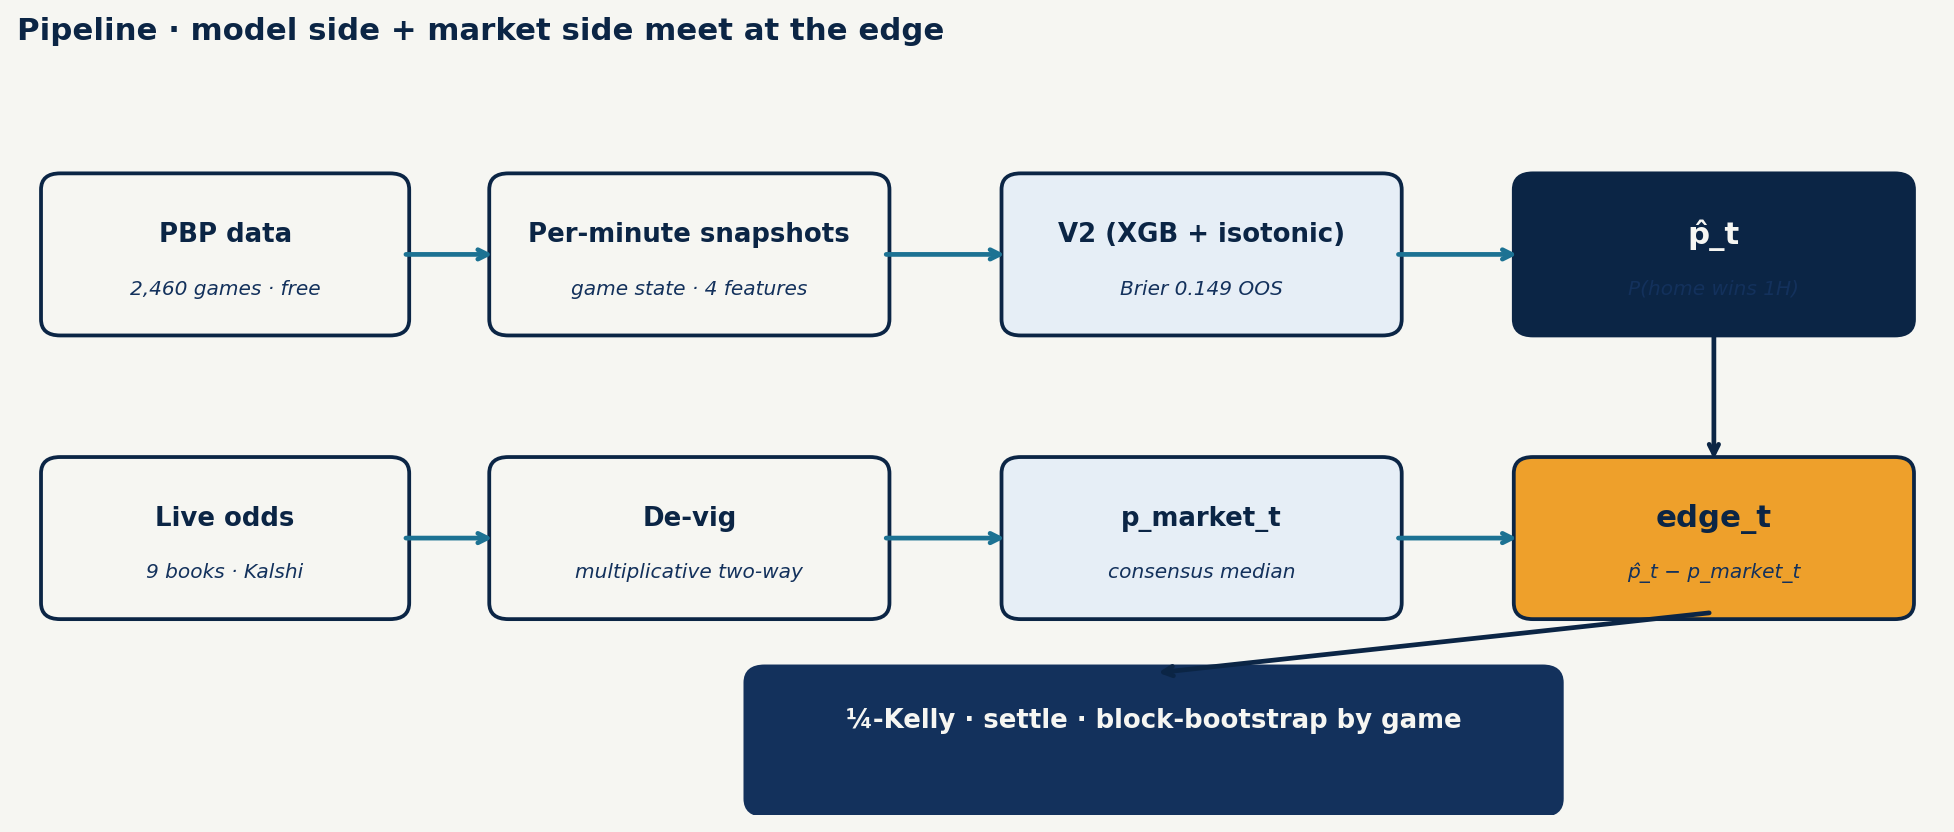
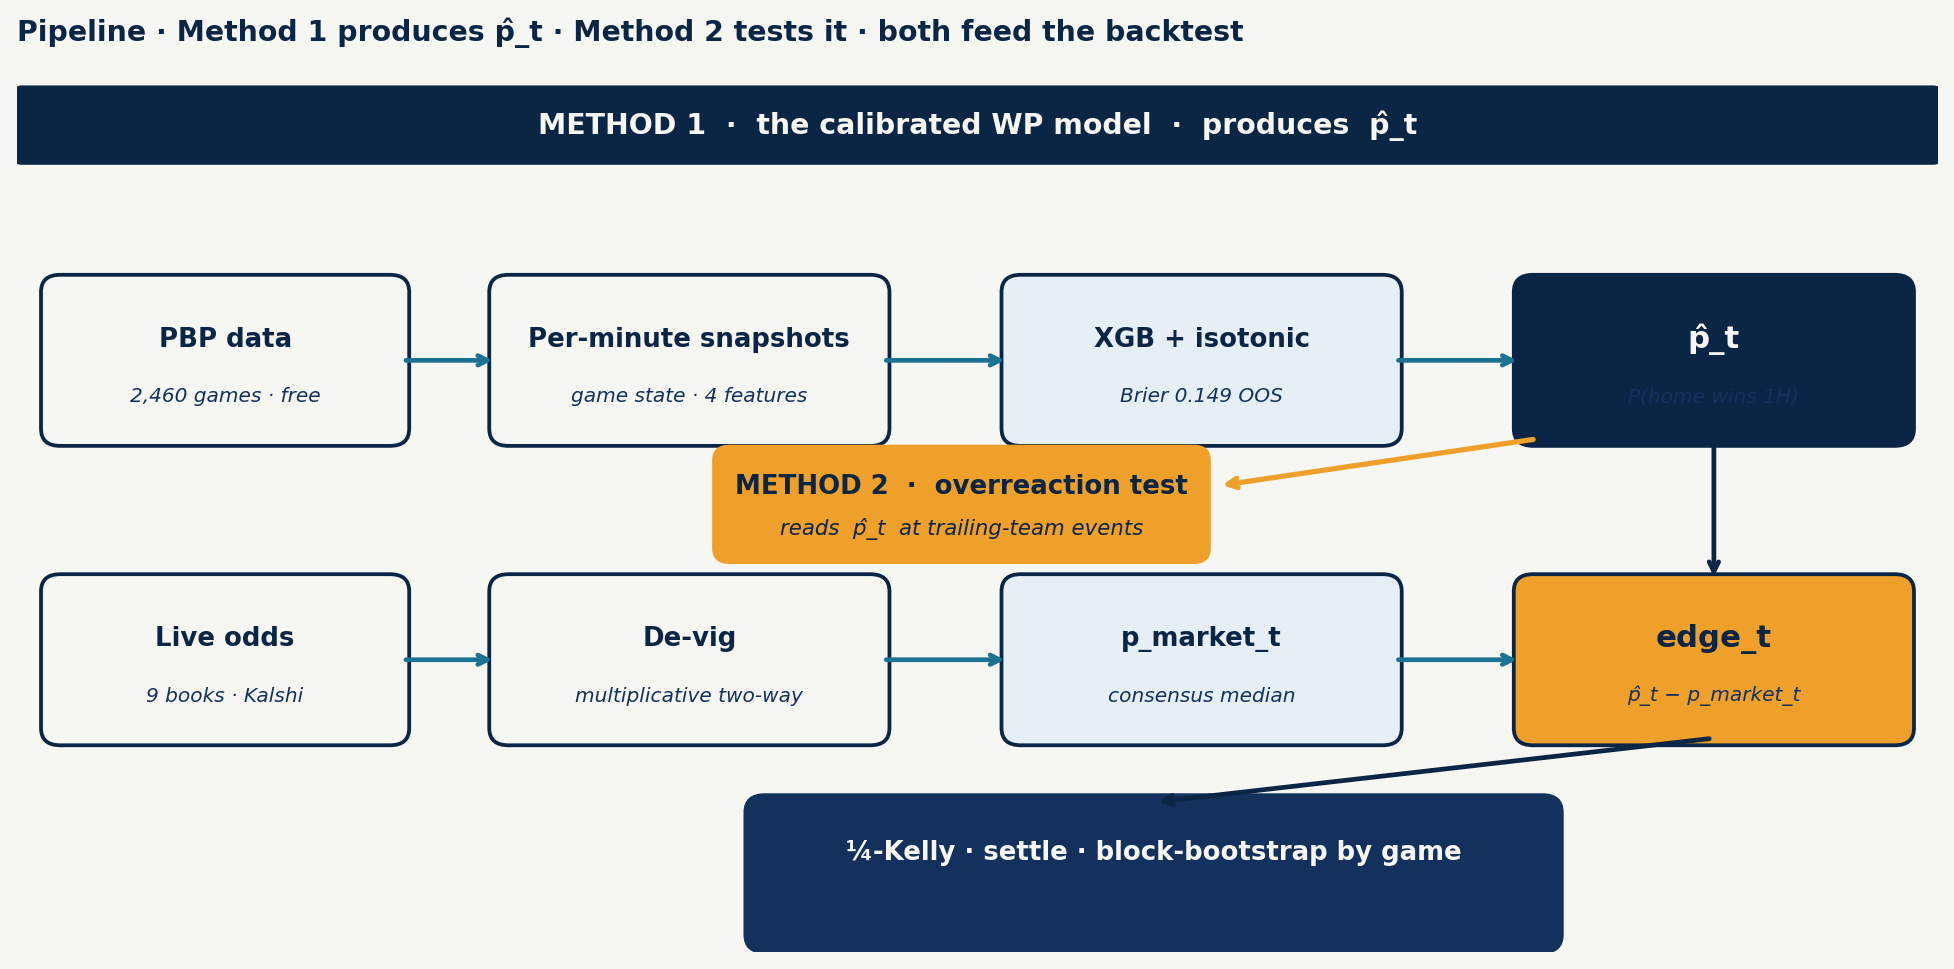
Pipeline diagram: explicit Method 1 + Method 2 labels
slides/figures/pipeline_flow.png regenerated with:
  · NAVY banner across the top of the model row -
    'METHOD 1 · the calibrated WP model · produces p_hat_t'
  · ACCENT callout in the row gap, branching off p_hat_t with an arrow -
    'METHOD 2 · overreaction test · reads p_hat_t at trailing-team events'
  · Title updated: 'Method 1 produces p_hat_t · Method 2 tests it · both feed the backtest'

Slide 5 speaker script: explicit references to the NAVY banner (Method 1)
and the ACCENT callout (Method 2) so the audience picks up the labels
right as they see them in the diagram.

diff --git a/scripts/generate_slide_figures.py b/scripts/generate_slide_figures.py
@@ -170,10 +170,10 @@ def make_liquidity():
 
 # ─── 5. Pipeline flowchart ──────────────────────────────────────────────
 def make_pipeline():
-    print("[5] Pipeline flowchart", flush=True)
-    fig, ax = plt.subplots(figsize=(11.6, 5.0), dpi=170)
+    print("[5] Pipeline flowchart (with Method 1 / Method 2 labels)", flush=True)
+    fig, ax = plt.subplots(figsize=(11.6, 5.8), dpi=170)
     fig.patch.set_facecolor(CREAM); ax.set_facecolor(CREAM)
-    ax.set_xlim(0, 12); ax.set_ylim(0, 5.5); ax.axis("off")
+    ax.set_xlim(0, 12); ax.set_ylim(0, 6.2); ax.axis("off")
 
     def box(x, y, w, h, label, fc=CREAM, ec=NAVY, fontc=NAVY, sub=None, big=False):
         p = FancyBboxPatch((x, y), w, h, boxstyle="round,pad=0.05,rounding_size=0.12",
@@ -185,16 +185,34 @@ def make_pipeline():
             ax.text(x + w/2, y + h/2 - 0.25, sub, ha="center", va="center",
                     fontsize=8.5, color=DEEP, style="italic")
 
-    def arrow(x1, y1, x2, y2, color=TEAL):
+    def arrow(x1, y1, x2, y2, color=TEAL, lw=2):
         ax.annotate("", xy=(x2, y2), xytext=(x1, y1),
-                    arrowprops=dict(arrowstyle="->", color=color, lw=2))
+                    arrowprops=dict(arrowstyle="->", color=color, lw=lw))
 
-    # Row 1 — model side
+    # ── METHOD 1 banner over the model row ───────────────────────────────
+    m1 = FancyBboxPatch((0, 5.55), 12, 0.5,
+                        boxstyle="round,pad=0.02,rounding_size=0.05",
+                        fc=NAVY, ec=NAVY); ax.add_patch(m1)
+    ax.text(6, 5.8, "METHOD 1  ·  the calibrated WP model  ·  produces  p̂_t",
+            ha="center", va="center", fontsize=12, fontweight="bold", color=CREAM)
+
+    # Row 1 — model side (this whole row IS Method 1)
     box(0.2, 3.6, 2.2, 1.1, "PBP data", sub="2,460 games · free", fc=CREAM)
     box(3.0, 3.6, 2.4, 1.1, "Per-minute snapshots", sub="game state · 4 features")
-    box(6.2, 3.6, 2.4, 1.1, "V2 (XGB + isotonic)", sub="Brier 0.149 OOS", fc="#E6EEF6")
+    box(6.2, 3.6, 2.4, 1.1, "XGB + isotonic", sub="Brier 0.149 OOS", fc="#E6EEF6")
     box(9.4, 3.6, 2.4, 1.1, "p̂_t", sub="P(home wins 1H)", fc=NAVY, fontc=CREAM, big=True)
     arrow(2.4, 4.15, 3.0, 4.15); arrow(5.4, 4.15, 6.2, 4.15); arrow(8.6, 4.15, 9.4, 4.15)
+
+    # ── METHOD 2 callout — branches off p̂_t ──────────────────────────────
+    m2 = FancyBboxPatch((4.4, 2.78), 3.0, 0.72,
+                        boxstyle="round,pad=0.05,rounding_size=0.1",
+                        fc=ACCENT, ec=ACCENT); ax.add_patch(m2)
+    ax.text(5.9, 3.27, "METHOD 2  ·  overreaction test",
+            ha="center", va="center", fontsize=11, fontweight="bold", color=NAVY)
+    ax.text(5.9, 2.97, "reads  p̂_t  at trailing-team events", ha="center", va="center",
+            fontsize=9, color=NAVY, style="italic")
+    # arrow from p̂_t down-left to Method 2 box
+    arrow(9.5, 3.6, 7.5, 3.27, color=ACCENT, lw=2.2)
 
     # Row 2 — market side
     box(0.2, 1.5, 2.2, 1.1, "Live odds", sub="9 books · Kalshi", fc=CREAM)
@@ -203,16 +221,16 @@ def make_pipeline():
     box(9.4, 1.5, 2.4, 1.1, "edge_t", sub="p̂_t − p_market_t", fc=ACCENT, fontc=NAVY, big=True)
     arrow(2.4, 2.05, 3.0, 2.05); arrow(5.4, 2.05, 6.2, 2.05); arrow(8.6, 2.05, 9.4, 2.05)
 
-    # Diagonal merge: p̂ + market → edge
+    # Diagonal merge: p̂_t → edge_t
     arrow(10.6, 3.6, 10.6, 2.6, color=NAVY)
 
-    # Bottom — backtest
+    # Bottom — backtest (Method 1 + Method 2 both flow here)
     box(4.6, 0.05, 5.0, 1.0, "¼-Kelly · settle · block-bootstrap by game",
         sub="ROI · Sharpe · 95% CI", fc=DEEP, fontc=CREAM, ec=DEEP)
     arrow(10.6, 1.5, 7.1, 1.05, color=NAVY)
 
-    ax.set_title("Pipeline · model side + market side meet at the edge",
-                 fontsize=13, color=NAVY, fontweight="bold", loc="left", pad=14)
+    ax.set_title("Pipeline · Method 1 produces p̂_t · Method 2 tests it · both feed the backtest",
+                 fontsize=12, color=NAVY, fontweight="bold", loc="left", pad=12)
     fig.tight_layout()
     fig.savefig(OUT / "pipeline_flow.png", facecolor=CREAM, bbox_inches="tight")
     plt.close(fig)

diff --git a/slides/speaker_script.md b/slides/speaker_script.md
@@ -34,9 +34,11 @@ Pair this with `slides/final_deck.pptx` (16 slides, ~10 min). Sections:
 > "So the rest of the talk is Method 1 and Method 2."
 
 ### Slide 5 — Pipeline  (60 sec)
-> "Here's the whole system in one diagram. **Top row is the model side**: play-by-play, 2,460 games from nba_api, turned into per-minute game-state snapshots, fed to our model — XGBoost plus isotonic — outputs `p̂_t`, the calibrated probability the home team wins the 1st half."
-> "**Bottom row is the market side**: live odds from 9 sportsbooks and Kalshi, de-vigged into a market probability `p_market_t`."
-> "They meet at `edge_t = p̂_t − p_market_t`. That goes through the backtest — quarter-Kelly sized at the vigged odds, settled, block-bootstrapped by game."
+> "Here's the whole system in one diagram, with the two methods labeled. **The NAVY banner across the top — that whole row is Method 1**: play-by-play, 2,460 games from nba_api, turned into per-minute game-state snapshots, fed to XGBoost plus isotonic, outputs `p̂_t`, the calibrated probability the home team wins the 1st half."
+> *(point at the ACCENT callout)*
+> "**The orange callout in the middle is Method 2** — it branches off `p̂_t` and tests for overreaction at trailing-team scoring events. It doesn't change the main flow; it's a parallel diagnostic."
+> "**Bottom row is the market side**: live odds from 9 sportsbooks and Kalshi, de-vigged into `p_market_t`."
+> "Method 1's `p̂_t` meets the market at `edge_t`. That goes through the backtest at the bottom — quarter-Kelly sized at the vigged odds, settled, block-bootstrapped by game."
 
 ### Slide 6 — Method 1 · how it works  (45 sec)
 > "Method 1 — the calibrated WP model. Intentionally small. XGBoost on four features: `minute_idx`, `score_diff_home`, `recent_run_diff`, `period`. Isotonic on a held-out fold so a 0.70 prediction actually corresponds to a 70% empirical frequency."